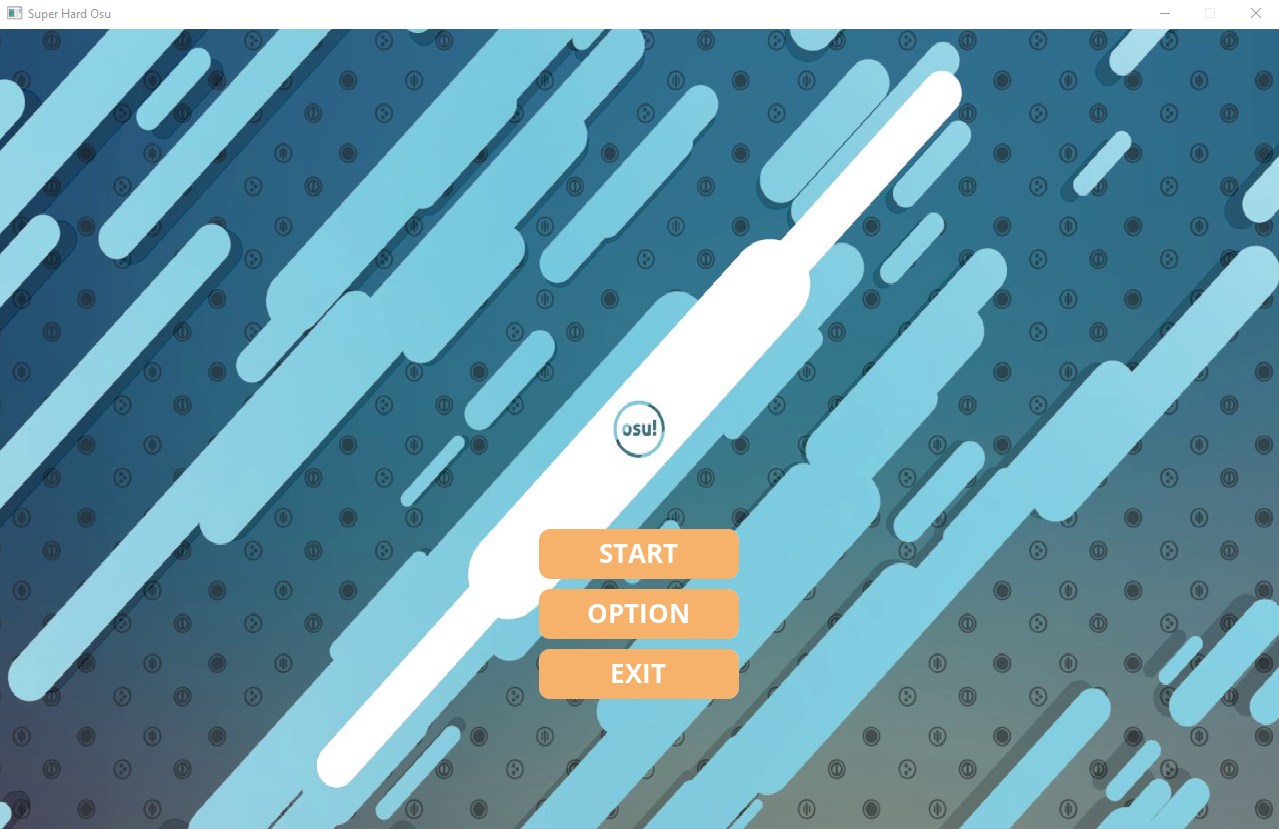
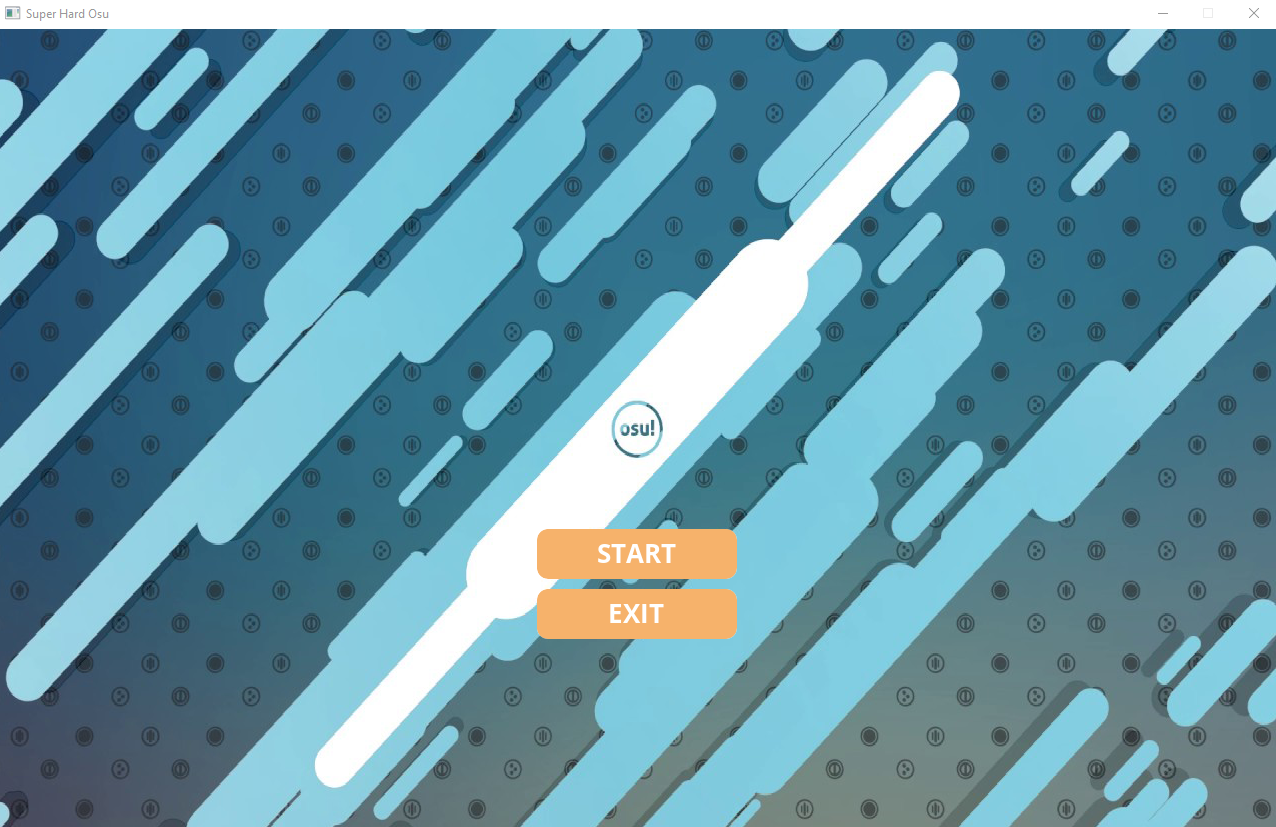
remove unused button and update screenshot

diff --git a/2dOsu/src/StartScreen.cpp b/2dOsu/src/StartScreen.cpp
@@ -11,32 +11,33 @@ StartScreen::StartScreen() {
 	button[START]->focusButton = Texture::loadTexture("assets/button_start_focus.png");
 	button[START]->center(WIDTH / 2);
 
+	/*
 	button[OPTION] = new Button("assets/button_option.png", 0, 560);
 	button[OPTION]->focusButton = Texture::loadTexture("assets/button_option_focus.png");
 	button[OPTION]->center(WIDTH / 2);
-
-	button[EXIT] = new Button("assets/button_exit.png", 0, 620);
+	*/
+	button[EXIT] = new Button("assets/button_exit.png", 0, 560);
 	button[EXIT]->focusButton = Texture::loadTexture("assets/button_exit_focus.png");
 	button[EXIT]->center(WIDTH / 2);
 }
 
 StartScreen::~StartScreen() {
 	button[START]->~Button();
-	button[OPTION]->~Button();
+	//button[OPTION]->~Button();
 	button[EXIT]->~Button();
 	SDL_DestroyTexture(startScreenBackground);
 }
 
 void StartScreen::update() {
 	button[START]->update();
-	button[OPTION]->update();
+	//button[OPTION]->update();
 	button[EXIT]->update();
 }
 
 void StartScreen::render() {
 	SDL_RenderCopy(Game::renderer, startScreenBackground, NULL, NULL);
 	button[START]->render();
-	button[OPTION]->render();
+	//button[OPTION]->render();
 	button[EXIT]->render();
 	
 }

diff --git a/2dOsu/src/Game.cpp b/2dOsu/src/Game.cpp
@@ -22,8 +22,7 @@ Game::~Game() {
 enum State {
 	Intro = 0,
 	Ingame = 1,
-	Option = 2,
-	End = 3
+	End = 2
 };
 
 
@@ -99,8 +98,6 @@ void Game::update() {
 		if (countdown->getTimeLeft() == 0) {
 			gameState = End;
 		}
-		break;
-	case Option:
 		break;
 	case End:
 		//cout << countdown->getTimeLeft() << endl;
@@ -204,8 +201,6 @@ void Game::render() {
 		break;
 	case Ingame:
 		tile->render();
-		break;
-	case Option:
 		break;
 	case End:
 		if (endScreen == NULL) endScreen = new EndScreen(tile->score, "OUT OF TIME!!!");

diff --git a/2dOsu/include/StartScreen.h b/2dOsu/include/StartScreen.h
@@ -7,8 +7,7 @@ class Textbox;
 
 enum StartScreenButtonDetail {
 	START = 0,
-	OPTION = 1,
-	EXIT = 2, 
+	EXIT = 1, 
 };
 
 class StartScreen {
@@ -17,7 +16,7 @@ public:
 	~StartScreen();
 	void update();
 	void render();
-	Button* button[3];
+	Button* button[2];
 private:
 	SDL_Texture* startScreenBackground;
 
